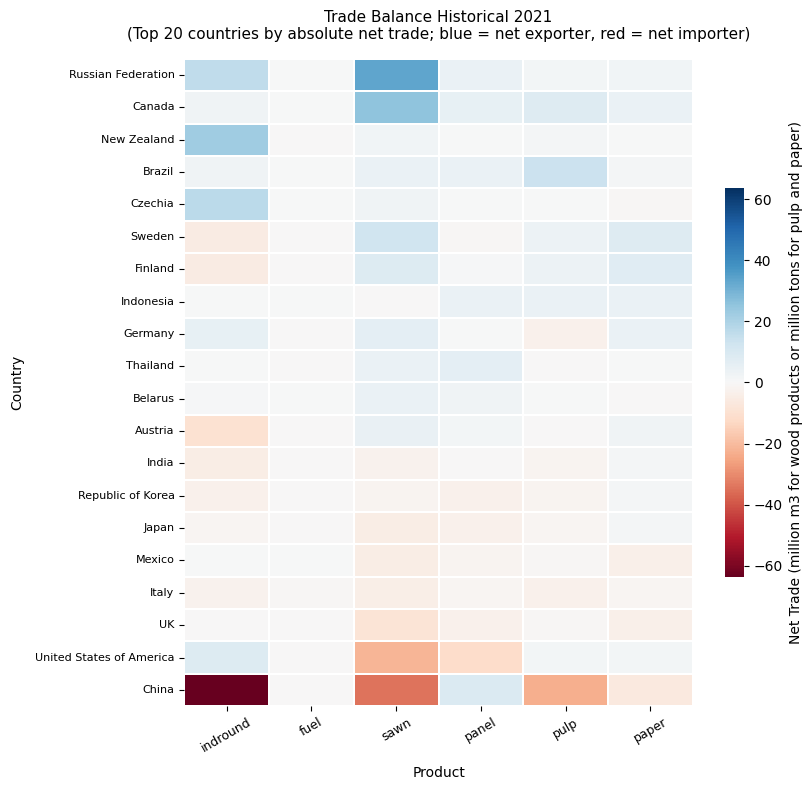
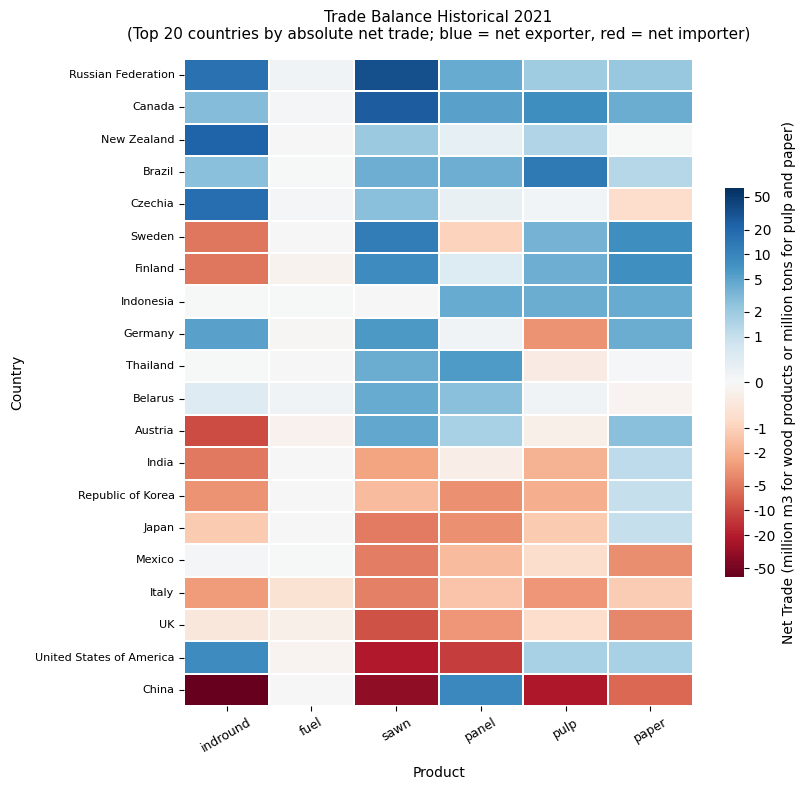
Use a log scale for the trade balance heatmap

diff --git a/cobwood/plot/trade_balance_heatmap.py b/cobwood/plot/trade_balance_heatmap.py
@@ -2,6 +2,7 @@
 
 from __future__ import annotations
 
+import matplotlib.colors
 import matplotlib.figure
 import matplotlib.pyplot as plt
 import pandas
@@ -18,6 +19,7 @@ def trade_balance_heatmap(
     model: GFPMX,
     year: int = 2021,
     top_n: int = 40,
+    log_scale: bool = False,
 ) -> matplotlib.figure.Figure:
     """Plot a heatmap of net trade by country (rows) and product (columns).
 
@@ -44,6 +46,11 @@ def trade_balance_heatmap(
     top_n : int, optional
         Maximum number of countries to display, selected by descending total
         absolute net trade across all products.  Default is ``40``.
+    log_scale : bool, optional
+        If ``True``, apply a symmetric log colour scale
+        (``matplotlib.colors.SymLogNorm``) so that small differences near zero
+        are still visible despite a few very large outlier values.  The linear
+        threshold is set to 1 (same unit as the data).  Default is ``False``.
 
     Returns
     -------
@@ -112,6 +119,13 @@ def trade_balance_heatmap(
     if abs_max == 0:
         abs_max = 1  # avoid degenerate scale
 
+    if log_scale:
+        norm = matplotlib.colors.SymLogNorm(
+            linthresh=1, linscale=0.5, vmin=-abs_max, vmax=abs_max
+        )
+    else:
+        norm = None
+
     # Figure dimensions: grow with number of countries
     n_countries = len(df_plot)
     n_products = len(model.products)
@@ -120,20 +134,31 @@ def trade_balance_heatmap(
 
     fig, ax = plt.subplots(figsize=(fig_width, fig_height))
 
-    seaborn.heatmap(
-        df_plot,
+    heatmap_kws = dict(
         ax=ax,
         cmap="RdBu",
-        center=0,
-        vmin=-abs_max,
-        vmax=abs_max,
         linewidths=0.3,
         linecolor="white",
-        cbar_kws={
-            "shrink": 0.6,
-            "label": f"Net Trade ({unit})",
-        },
+        cbar_kws={"shrink": 0.6, "label": f"Net Trade ({unit})"},
     )
+    if norm is not None:
+        heatmap_kws["norm"] = norm
+    else:
+        heatmap_kws["center"] = 0
+        heatmap_kws["vmin"] = -abs_max
+        heatmap_kws["vmax"] = abs_max
+
+    seaborn.heatmap(df_plot, **heatmap_kws)
+
+    if log_scale:
+        # Replace default 10^n tick labels with plain human-readable integers.
+        # Candidates follow a 1-2-5 sequence; filter to those within the data range.
+        candidates = [1, 2, 5, 10, 20, 50, 100, 200, 500, 1000, 2000, 5000]
+        pos_ticks = [v for v in candidates if v <= abs_max]
+        ticks = [-v for v in reversed(pos_ticks)] + [0] + pos_ticks
+        cbar = ax.collections[0].colorbar
+        cbar.set_ticks(ticks)
+        cbar.set_ticklabels([str(t) for t in ticks])
 
     period_label = "Historical" if year <= 2021 else "Projected"
     ax.set_title(

diff --git a/cobwood/gfpmx.py b/cobwood/gfpmx.py
@@ -368,7 +368,7 @@ class GFPMX:
         return g
 
     def trade_balance_heatmap(
-        self, year: int = 2021, top_n: int = 40
+        self, year: int = 2021, top_n: int = 40, log_scale: bool = True
     ) -> "matplotlib.figure.Figure":
         """Plot a heatmap of net trade by country (rows) and product (columns).
 
@@ -380,7 +380,7 @@ class GFPMX:
              fig.savefig(gfpmxb2021.plot_dir / "trade_balance_heatmap.png", bbox_inches="tight")
 
         """
-        return _trade_balance_heatmap(self, year=year, top_n=top_n)
+        return _trade_balance_heatmap(self, year=year, top_n=top_n, log_scale=log_scale)
 
     def get_df(
         self, product: Union[str, List[str]], var: Union[str, List[str]]

diff --git a/paper/README.md b/paper/README.md
@@ -65,8 +65,6 @@ Draw one line by country
 
 Trade balance heat map
 
-    from cobwood.gfpmx import GFPMX
-    gfpmxb2021 = GFPMX(scenario="base_2021")
     fig = gfpmxb2021.trade_balance_heatmap(year=2021, top_n=20)
     fig.savefig(plot_dir / "trade_balance_heatmap.png", bbox_inches="tight")
 
@@ -223,6 +221,20 @@ from a given start year:
 
 - We don't need to re-run the model this time since we can simply reload the model's
   output data from the previous run above.
+
+### Comments on the Trade balance heatmap
+
+> Russia/Canada as dominant roundwood exporters
+
+> China as the largest net importer across multiple products
+
+> European countries as sawn/paper exporters
+
+> European countries (Sweden, Finland, Germany, Austria, Czechia) clustered as net
+> exporters, relevant to EU biomass supply discussions
+
+> The "fuel" column is mostly blank, suggesting fuelwood trade is less globalized than
+> processed products
 
 
 ## Conclusion
